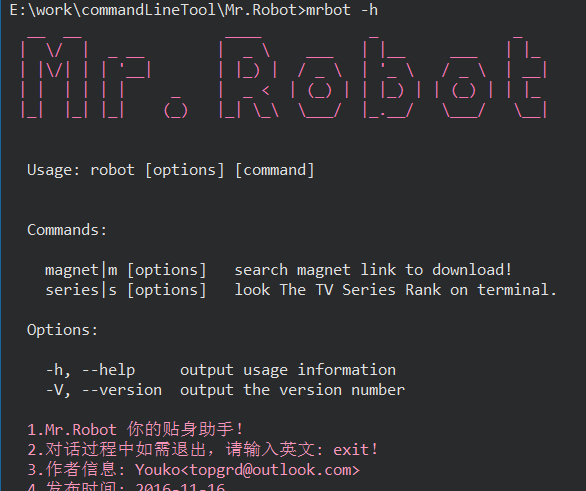
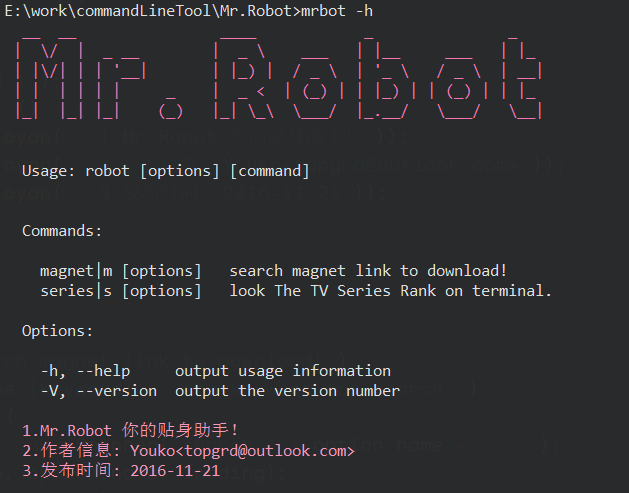
update readme

diff --git a/bin/robot.js b/bin/robot.js
@@ -20,9 +20,8 @@ console.log(
 program.version('0.0.1');
 program.on('--help', ()=> {
   console.log(chalk.cyan('  1.Mr.Robot 你的贴身助手！'));
-  console.log(chalk.cyan('  2.对话过程中如需退出，请输入英文: exit！'));
-  console.log(chalk.cyan('  3.作者信息: Youko<topgrd@outlook.com>'));
-  console.log(chalk.cyan('  4.发布时间: 2016-11-16'));
+  console.log(chalk.cyan('  2.作者信息: Youko<topgrd@outlook.com>'));
+  console.log(chalk.cyan('  3.发布时间: 2016-11-21'));
 });
 
 program

diff --git a/README.md b/README.md
@@ -1,5 +1,6 @@
 # Mr.Robot
 A command tool to make your life easier.  
 ## How to use  
+npm i -g git@github.com:TopGrd/Mr.Robot.git    
 use `$mrbot -h` to show help.  
 ![](./s.png)
